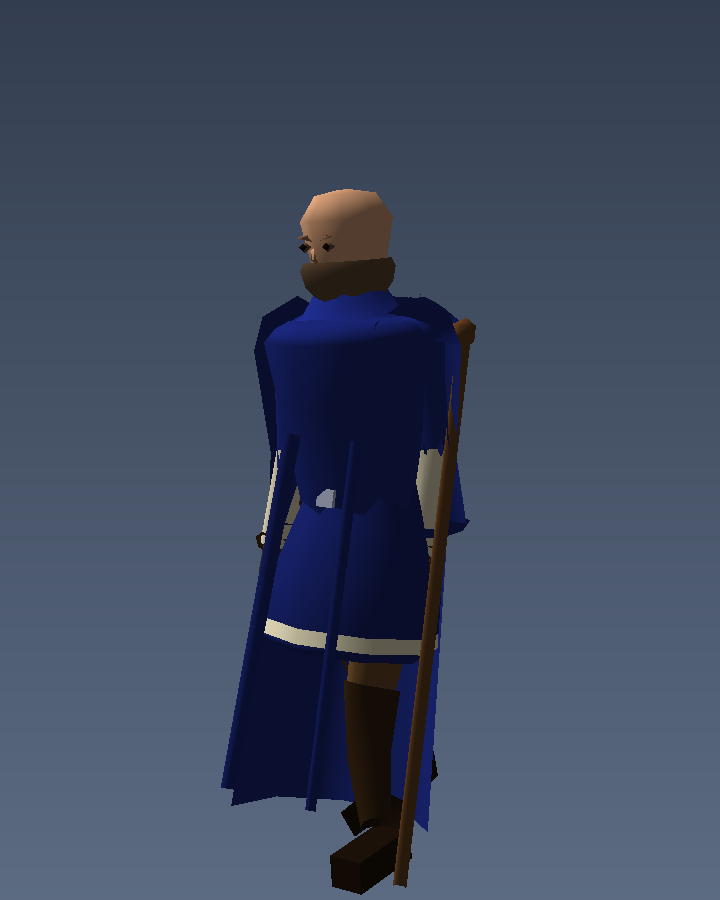
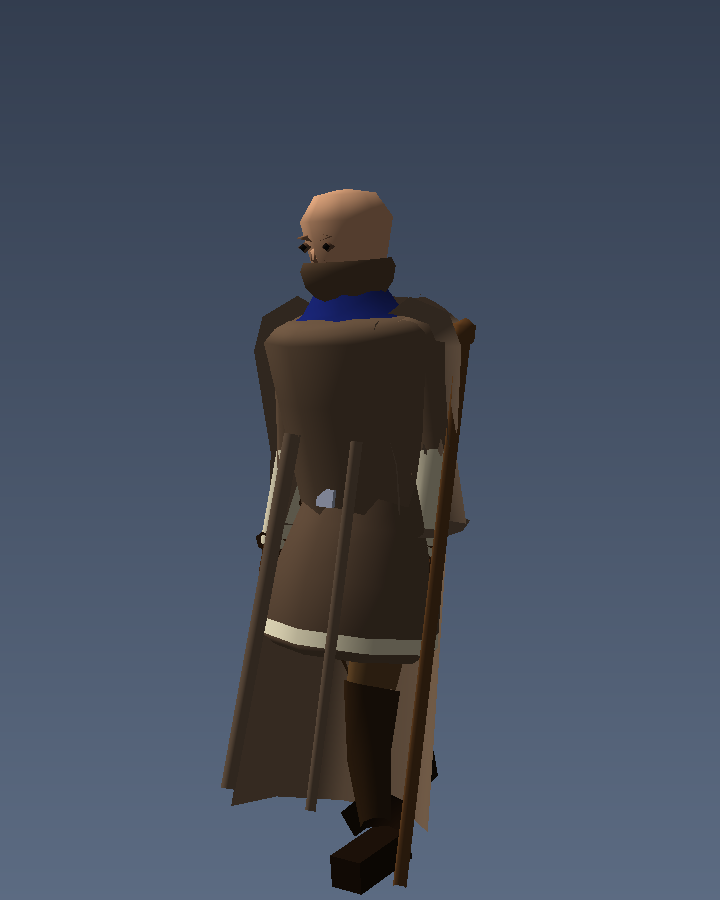
rig: great helm lands its cross breaths, the crest becomes a fin over the crown, and a WOOL material lets non-uniform classes keep their own colour
The army read as one blue mass because MAT_LINEN/MAT_GAMBESON are the only
team-dyed materials and the shader replaces their authored HUE with the
team's -- so every cloth garment in the rig was that colour and the authored
browns and creams never survived. WOOL (id 9) is the second cloth: same
weave, keeps its colour. Villager, mob_rioter, monk and the monk's robe now
use it, so the peasantry and the clergy are not blue infantry.

Crest was three 24 mm rods starting 0.36 hr INSIDE the great helm's crown, so
only red tips showed. It is now one lofted fin over the crown plus two side
locks, and it reads as a plume from front, side and behind.

Changed region(s): [[0.3056, 0.3111, 0.6722, 0.9333]]

diff --git a/imperial-crown-v6/src/gfx/rig/wardrobe.js b/imperial-crown-v6/src/gfx/rig/wardrobe.js
@@ -23,7 +23,18 @@ import { HEAD_X } from './anatomy.js';
 /* Material ids, shared with unitShaders.js. */
 export const MAT = {
   LINEN: 0, MAIL: 1, PLATE: 2, GAMBESON: 3,
-  SKIN: 4, HAIR: 5, LEATHER: 6, WOOD: 7, TRIM: 8
+  SKIN: 4, HAIR: 5, LEATHER: 6, WOOD: 7, TRIM: 8,
+  /* DYED WOOL, NOT TEAM-DYED.
+     Cloth takes the team colour through MAT_LINEN/MAT_GAMBESON, and the
+     shader replaces the authored HUE with the team's -- only the garment's
+     luminance survives. That is correct for a uniform and it is why the
+     whole army was one blue mass: every cloth garment in the rig was one of
+     those two materials, so there was exactly one tint in the game.
+     Wool is the second cloth: same weave as the dye bath, but it keeps the
+     colour it was authored with, so a spearman's hose, a monk's habit and a
+     mercenary's cloak can be rust, oatmeal and grey around the player's blue
+     surcoat. */
+  WOOL: 9
 };
 
 /* ------------------------------------------------------------
@@ -368,6 +379,42 @@ export function buildHelm(g, m, kind, age = 3, opts = {}) {
         [hr * 1.19 * HELM_CLEAR * 1.02, SIGHT_HI + hr * 0.05],
         [hr * 1.19 * HELM_CLEAR * 1.02, SIGHT_HI + hr * 0.09]
       ], { seg: g.seg(0), squash: [SQX + 0.02, SQZ * 1.06] });
+
+      /* THE LOWER FACE OF A GREAT HELM IS NOT BLANK.
+         With the sight done, everything below it was an unbroken band of
+         steel from the slit down to the gorget: the helmet read as a bucket
+         with a letterbox in it. Historical great helms carry a cross-shaped
+         breathing arrangement -- a vertical slot below the sight running
+         down over the mouth, and a row of small holes either side of it.
+         That cross is also what stops the lower half reading as a face: a
+         blank band under a slit is a visor, and a visor is where a viewer
+         looks for a nose. */
+      const SLOT_R = 1.18 * HELM_CLEAR * 1.03;
+      g.material(MAT.LEATHER).color(0.065, 0.065, 0.075);
+      /* the vertical of the cross: brow to chin, on the centre line */
+      g.lathe(B.HEAD, [
+        [hr * SLOT_R, headY - hr * 0.74],
+        [hr * SLOT_R, SIGHT_LO - hr * 0.02]
+      ], { seg: 4, squash: [SQX + 0.02, SQZ * 1.06],
+           arc: Math.PI * 0.085, arcStart: Math.PI * 0.5 - Math.PI * 0.0425 });
+      /* the breaths: three a side -- AT NEAR ONLY.
+         Six holes are 60 triangles, and a breath hole is 12 mm across, which
+         at the mid tier is under three pixels: below the point where an eye
+         can see it at all. The vertical slot carries the cross read at every
+         distance on its own. */
+      if (g.detail === DETAIL.NEAR) for (const side of [-1, 1]) {
+        for (let i = 0; i < 3; i++) {
+          const by = headY - hr * (0.28 + i * 0.16);
+          const ba = Math.PI * 0.5 + side * Math.PI * (0.13 + i * 0.012);
+          const bw = Math.PI * 0.030;
+          g.lathe(B.HEAD, [
+            [hr * SLOT_R, by - hr * 0.030],
+            [hr * SLOT_R, by + hr * 0.030]
+          ], { seg: 3, squash: [SQX + 0.02, SQZ * 1.06],
+               arc: bw, arcStart: ba - bw * 0.5 });
+        }
+      }
+      g.material(MAT.PLATE).color(0.70, 0.72, 0.76);
     }
     return;
   }
@@ -467,16 +514,52 @@ export function buildHelm(g, m, kind, age = 3, opts = {}) {
 export function buildCrest(g, m, colour, count = 4) {
   const { headY, hr } = m;
   g.material(MAT.HAIR).color(colour);
-  /* A crest is a fin, so each lock is one quad wide and one segment deep:
-     at two rings per lock, five locks cost 60 triangles for a plume. */
-  /* Three segments, not four: a plume lock is 12 mm across and reads purely
-     as a silhouette against the sky, and every triangle in the crest is a
-     triangle the age-4 soldier does not have for his armour. */
-  for (let i = 0; i < count; i++) {
-    const t = (i - (count - 1) / 2) / ((count - 1) / 2 || 1);
-    g.tube(B.HEAD, [0, headY + hr * 1.10, t * hr * 0.60],
-      [0, headY + hr * (1.55 + 0.20 * (1 - Math.abs(t))), t * hr * 0.90],
-      0.024, 0.015, { seg: 3, rings: 1, squash: [0.55, 1.0] });
+  /* A CREST IS A FIN OVER THE CROWN, NOT A BUNCH OF STICKS.
+     The old version started each lock at headY + 1.10 hr and ran it to
+     +1.55..1.75 hr. That is fine on a bare head and completely wrong on a
+     great helm, whose crown closes at +1.46 hr: the first 0.36 hr of every
+     lock was INSIDE the steel, so what rendered was three or four little
+     red sticks appearing out of the top of an otherwise plain helmet.
+     Worse, a 24 mm tube is a rod however you colour it, and a crest is a
+     sheet -- a plume is read from its silhouette edge-on and from its flat
+     face abeam, and a rod has neither.
+     So: one FIN in the X=0 plane, swept front-to-back over the crown with
+     `loft`, which takes the normal from the surface and solves its own
+     winding. It starts on the crown, peaks just behind the apex, and sweeps
+     down the back -- which is the shape that reads as a plume from every
+     angle, including the front, where it is a thin dark line against the
+     sky rather than a fork of sticks. */
+  const CROWN = headY + hr * 1.44;
+  const HALF = hr * 0.030;          /* fin half-thickness */
+  const sect = (base, h, taper) => [
+    [-HALF * taper, base],
+    [-HALF * 0.55 * taper, base + h],
+    [HALF * 0.55 * taper, base + h],
+    [HALF * taper, base]
+  ];
+  /* THE FIN HAS TO CLEAR THE CROWN BY MORE THAN ITS OWN BASE.
+     At 0.40 hr tall and starting at the crown it rendered as a red wedge
+     sitting ON the helmet like a finial -- most of the sheet was either
+     inside the steel or foreshortened against it. A plume rises: it is
+     anchored low at the brow, peaks a third of a head above the crown, and
+     falls away down the back. */
+  g.loft(B.HEAD, [
+    { z: hr * 0.40, pts: sect(CROWN - hr * 0.44, hr * 0.10, 0.45) },
+    { z: hr * 0.10, pts: sect(CROWN - hr * 0.14, hr * 0.62, 1.00) },
+    { z: -hr * 0.20, pts: sect(CROWN - hr * 0.02, hr * 0.72, 0.92) },
+    { z: -hr * 0.56, pts: sect(CROWN - hr * 0.30, hr * 0.40, 0.55) },
+    { z: -hr * 0.86, pts: sect(CROWN - hr * 0.86, hr * 0.10, 0.30) }
+  ], { axis: [0, CROWN] });
+  /* Two smaller side locks, so a crest is not a single flat blade. They sit
+     behind the fin's peak and are half its height; `count` gates them so a
+     cheap plume can be the fin alone. */
+  if (count >= 3) {
+    for (const side of [-1, 1]) {
+      g.tube(B.HEAD,
+        [side * hr * 0.11, CROWN - hr * 0.06, -hr * 0.10],
+        [side * hr * 0.24, CROWN + hr * 0.40, -hr * 0.52],
+        0.026, 0.009, { seg: 3, rings: 1, squash: [0.70, 1.0] });
+    }
   }
 }
 
@@ -488,10 +571,21 @@ export function buildCrest(g, m, colour, count = 4) {
 export function buildSurcoat(g, m, opts = {}) {
   const { x, y, cd, sw } = m;
   const flares = opts.flares !== false;
-  /* Mid grey, not near-white: the team tint replaces the hue and keeps
-     this garment's luminance, so a white surcoat has no value left to
-     keep and flattens into a saturated slab. */
-  g.material(MAT.LINEN).color(0.58, 0.56, 0.60);
+  /* `wool` makes the surcoat take its OWN colour instead of the team's.
+     Most of the army wears the player's blue and should; the classes that
+     are not part of a uniform -- a villager's smock, a monk's habit, a
+     mercenary's coat, a raider's cloak -- pass a colour here and get it.
+     Without this every cloth garment in the game was MAT_LINEN, the shader
+     replaces the authored hue with the team's, and the result was an army
+     that read as one blue mass at any distance. */
+  if (opts.wool) {
+    g.material(MAT.WOOL).color(opts.wool);
+  } else {
+    /* Mid grey, not near-white: the team tint replaces the hue and keeps
+       this garment's luminance, so a white surcoat has no value left to
+       keep and flattens into a saturated slab. */
+    g.material(MAT.LINEN).color(0.58, 0.56, 0.60);
+  }
   const profile = flares
     ? [
       [x(0.170), y(1.02)],

diff --git a/imperial-crown-v6/src/gfx/rig/classes.js b/imperial-crown-v6/src/gfx/rig/classes.js
@@ -101,13 +101,18 @@ export const CLASSES = {
      changes with the job. Should read as a civilian from across the map. */
   villager: {
     profile: 'villager',
+    /* Undyed wool, not the player's blue. A villager is a civilian: he is
+       the one class in the game who must NOT look like part of the army, and
+       since every cloth material is team-dyed, giving him a blue tunic made
+       him read as a foot soldier without a helmet. */
+    woolBody: [0.62, 0.53, 0.36],
     helm: () => 'none',
     hair: 'short',
     beard: true,
     build(g, m, o) {
       buildHairAfterHelm(g, m, this, o);
       buildFaceDetail(g, m, { hair: o.hair, beard: true });
-      buildSurcoat(g, m, { flares: true });
+      buildSurcoat(g, m, { flares: true, wool: [0.60, 0.50, 0.33] });
       buildBelt(g, m);
       buildSatchel(g, m);
       buildTool(g, B.HAND_R, [m.handX + 0.030, m.y(0.98), 0.06], o.tool || 'axe');
@@ -240,9 +245,14 @@ export const CLASSES = {
        not quite reach -- the armpit, the collar notch, a sliver at the
        shoulder -- showed as grey undershirt through brown wool. There is no
        grey garment on a monk to show. */
-    bodyCol: [0.50, 0.40, 0.32],
-    bodyMat: 0,
-    legMat: 0,
+    /* WOOL, not LINEN. bodyMat 0 is the team-dye material, so the brown
+       habit was rendered in the player's blue whatever colour was written
+       on it -- the exact trap the hose note in anatomy.js describes. A monk
+       belongs to no army and his habit is the one thing you recognise him
+       by, so it is the material that keeps its own colour. */
+    bodyCol: [0.42, 0.33, 0.25],
+    bodyMat: 9,
+    legMat: 9,
     build(g, m, o) {
       buildFaceDetail(g, m, { hair: o.hair, beard: true });
       /* The robe: a long lathe from the shoulders to the ankles. This is
@@ -252,7 +262,10 @@ export const CLASSES = {
          0.42/0.33/0.26 a robe this big has no gradient left across its
          front third and reads as a hole in the figure rather than as
          cloth -- the same trap the cape above fell into. */
-      g.material(MAT.LINEN).color(0.52, 0.42, 0.33);
+      /* WOOL. Written as MAT_LINEN this brown robe was rendered in the
+         player's blue -- the habit is the monk's entire identity and it was
+         the same colour as a spearman's surcoat. */
+      g.material(MAT.WOOL).color(0.52, 0.42, 0.33);
       g.lathe(B.SKIRT, [
         /* The robe has to close over the shoulders, not stop below them.
            The bare tunic reaches 0.225 at y(1.45) and the neck is only 0.058
@@ -304,7 +317,7 @@ export const CLASSES = {
         const SHO = side < 0 ? B.SHOULDER_L : B.SHOULDER_R;
         const UP = side < 0 ? B.UPPER_ARM_L : B.UPPER_ARM_R;
         const sx = side * m.x(m.armX);
-        g.material(MAT.LINEN).color(0.48, 0.39, 0.31);
+        g.material(MAT.WOOL).color(0.48, 0.39, 0.31);
         /* Six rings at near; the two that only describe the upper arm's
            slight swell are below the pixel at mid and far. */
         /* 75-90 mm, not 120: the sleeve was 0.25 m across, i.e. twice the
@@ -616,6 +629,8 @@ export const CLASSES = {
      A civilian with a club and no training: narrow, hunched, ragged. */
   mob_rioter: {
     profile: 'villager',
+    /* Grey-brown rags, not a uniform. */
+    woolBody: [0.44, 0.39, 0.33],
     helm: () => 'none',
     hair: 'long',
     beard: true,

diff --git a/imperial-crown-v6/src/gfx/rig/rigs.js b/imperial-crown-v6/src/gfx/rig/rigs.js
@@ -29,7 +29,9 @@ export const MAT = {
   LINEN: 0, MAIL: 1, PLATE: 2, GAMBESON: 3,
   SKIN: 4, HAIR: 5, LEATHER: 6, WOOD: 7,
   /* Undyed cloth. Not team-dyed, so it can frame the team colour. */
-  TRIM: 8
+  TRIM: 8,
+  /* Dyed wool. Also not team-dyed -- keeps its authored colour. */
+  WOOL: 9
 };
 
 /**
@@ -130,7 +132,13 @@ export function buildHumanoid(g, prop, def, opts = {}) {
        Classes that are armoured to the skin (the knight, the huskarl) say so
        with bareChest: they get MAT_MAIL on the body itself; everyone else
        gets cloth and lets the wardrobe decide what armour they wear. */
-    bodyMat: def.bodyMat !== undefined ? def.bodyMat : (def.bareChest ? 4 : (def.mailedBody ? 1 : 3)),
+    /* A class may declare `woolBody` and keep its own cloth colour instead
+       of taking the team's. The torso is the biggest single surface on the
+       figure, so this is the parameter that decides whether an army reads as
+       a uniform or as one blue mass. */
+    bodyMat: def.bodyMat !== undefined
+      ? def.bodyMat
+      : (def.bareChest ? 4 : (def.mailedBody ? 1 : (def.woolBody ? 9 : 3))),
     legMat: def.legMat !== undefined ? def.legMat : ((def.bareChest || def.mailedBody) ? (def.bareChest ? 4 : 1) : 3),
     /* A bare chest has to be skin-coloured as well as skin-material: using
        the gambeson's fabric colour on MAT_SKIN renders a topless warrior in
@@ -140,7 +148,9 @@ export function buildHumanoid(g, prop, def, opts = {}) {
        asked for MAT_MAIL got a pale linen-tinted mail that reads as cloth
        at any distance -- the cataphract's chest was indistinguishable from
        the man-at-arms' padded jacket. */
-    bodyCol: def.bodyCol || (def.bareChest ? skin : (def.mailedBody ? [0.62, 0.61, 0.57] : [0.78, 0.76, 0.70]))
+    bodyCol: def.bodyCol || (def.bareChest ? skin
+      : (def.mailedBody ? [0.62, 0.61, 0.57]
+        : (def.woolBody || [0.78, 0.76, 0.70])))
   };
   const m = buildBody(g, prop, bodyOpts);
   /* opts carries the class key through from buildRig, so the guard lookup is

diff --git a/imperial-crown-v6/src/gfx/rig/unitShaders.js b/imperial-crown-v6/src/gfx/rig/unitShaders.js
@@ -334,6 +334,16 @@ void main() {
     float grain = sin(y * 52.0 + hash12(floor(wp * 30.0)) * 2.0) * 0.5 + 0.5;
     albedo *= 0.78 + grain * 0.36;
     roughness = 0.80;
+  } else if (mat == 9) {
+    /* DYED WOOL. The same weave as the dyed cloth above, but the colour is
+       the one the wardrobe authored rather than the team's. This is what
+       keeps an army from being one blue mass: the uniform is LINEN and takes
+       the player's colour, while hose, habits and mercenary coats are WOOL
+       and stay rust, oatmeal or grey. */
+    float w2 = weave(wp + y * 0.7, 46.0, 0.5);
+    float n2 = hash12(floor(wp * 190.0));
+    albedo *= 0.84 + w2 * 0.20 + n2 * 0.05;
+    roughness = 0.86;
   }
 
   vec3 N = normalize(vNormal);
